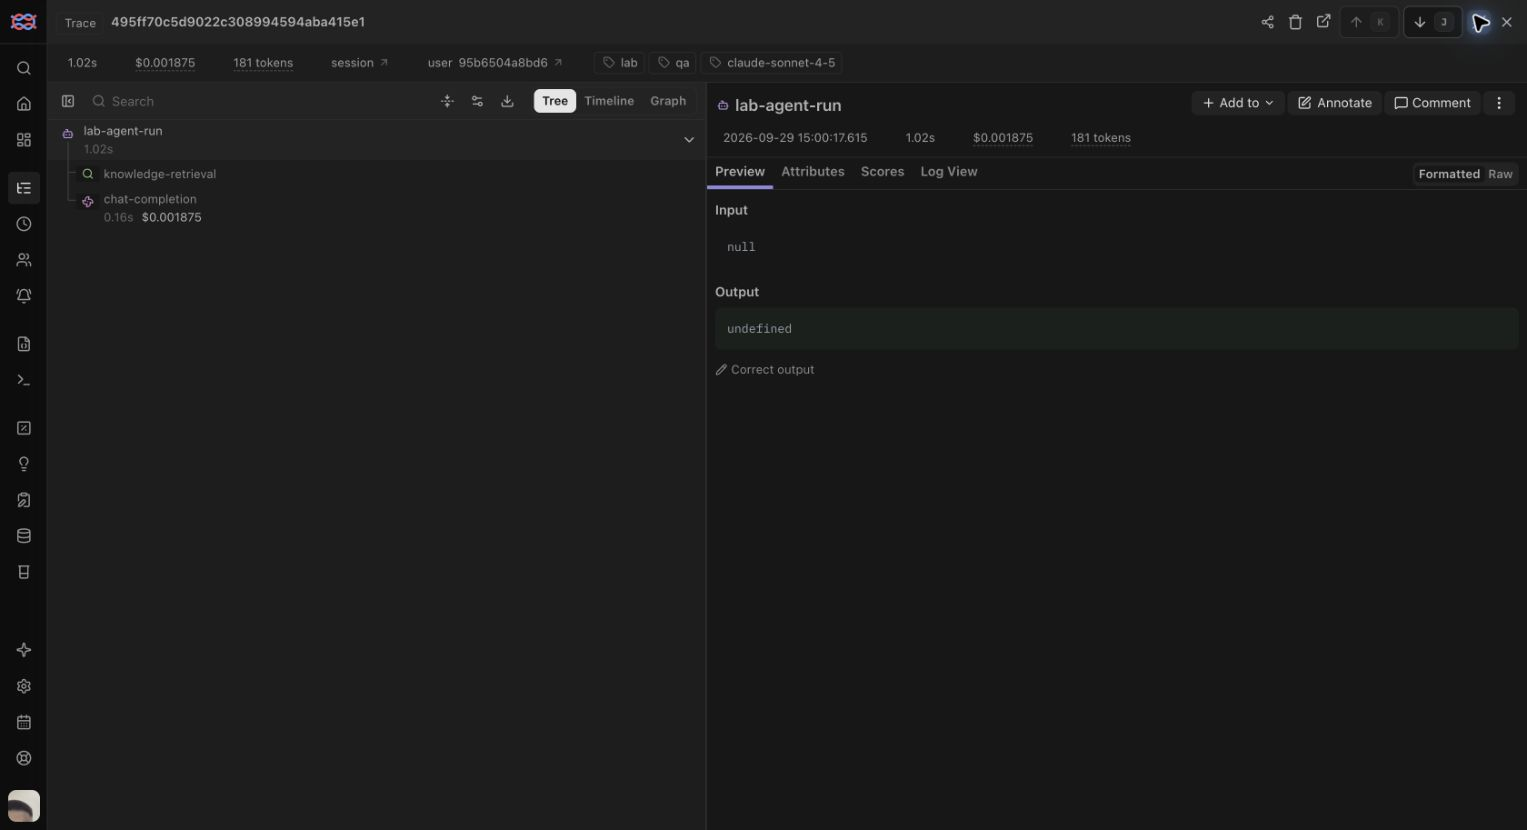
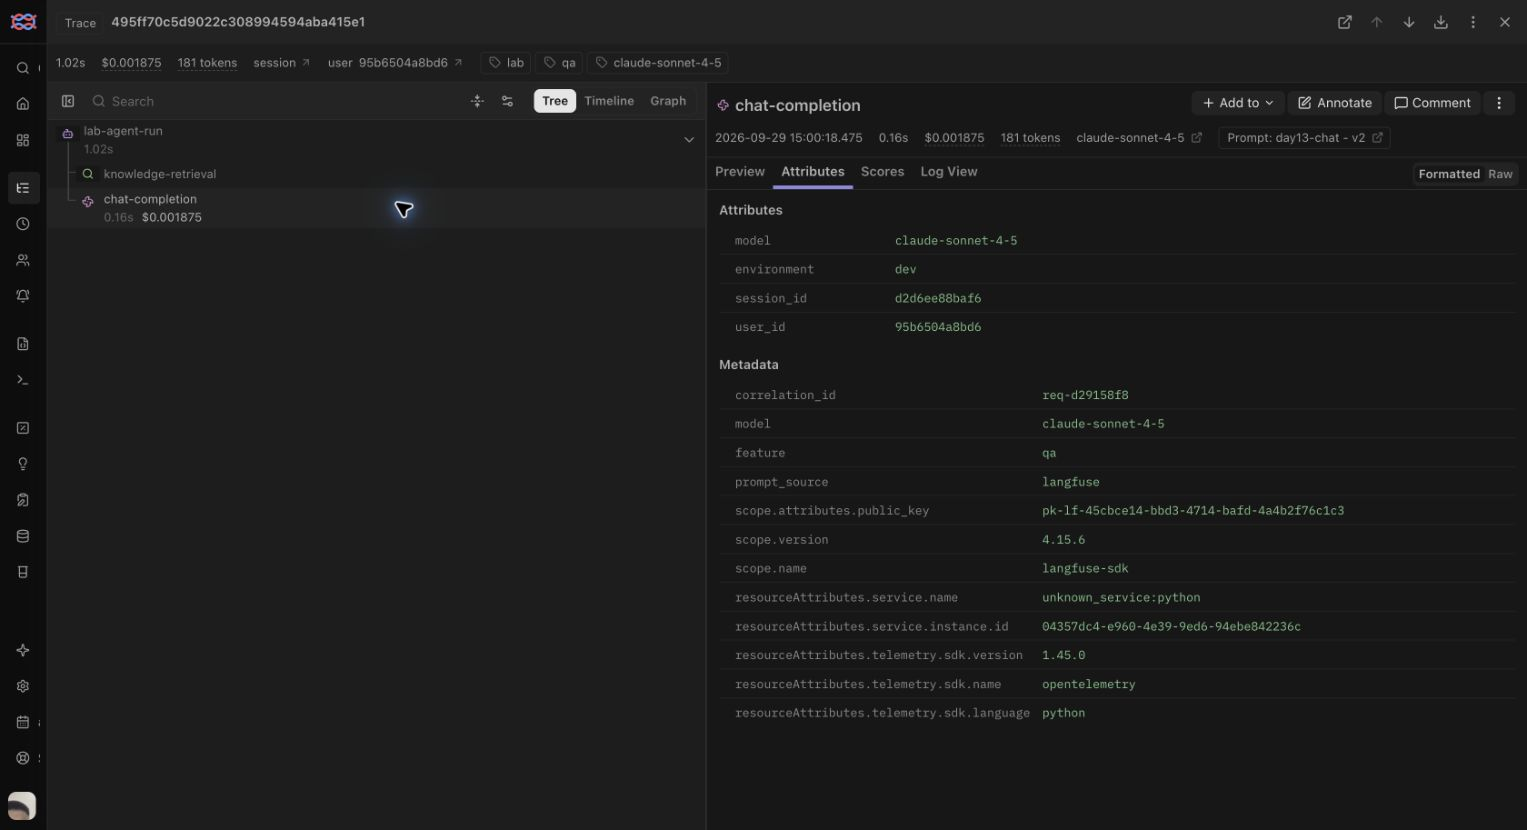
docs(evidence): clarify trace observation data
Select the generation child in the waterfall evidence and document why root input/output may be empty. Distinguish practice traces from the pending CP3 incident trace in the report.

diff --git a/submission/REPORT.md b/submission/REPORT.md
@@ -55,7 +55,7 @@
 ## 5. Tracing và prompt versioning
 
 - **Cách xác nhận traces do chính tôi tạo trong project cá nhân:** `.env` có key pair; Langfuse API xác nhận 12 traces trong project đang được key sử dụng. Langfuse UI xác nhận tên project là `day13-k4-l3a-2A202602628`; trace list và prompt UI screenshots nằm trong `evidence/06`–`10`.
-- **Cấu trúc root/retrieval/generation observations:** Đã kiểm tra waterfall live: `lab-agent-run` có hai child `knowledge-retrieval` và `chat-completion`. Root input/output không được capture; child input/output đã rà PII với 0 mẫu khớp email/điện thoại/CCCD/thẻ.
+- **Cấu trúc root/retrieval/generation observations:** Waterfall live có root `lab-agent-run` và hai child `knowledge-retrieval`, `chat-completion`. Root bật `capture_input=False` và `capture_output=False` để không lưu nội dung user; vì vậy UI có thể hiện `null`/`undefined` ở root. Ảnh waterfall chọn generation child, nơi Langfuse ghi model, prompt version, token và cost. Child input/output đã rà PII với 0 mẫu khớp email/điện thoại/CCCD/thẻ.
 - **Cách nối trace với log:** Correlation ID cùng feature/model xuất hiện trong metadata trace và structured log; session ID được hash trước khi gắn vào trace. Bảng ID nằm trong `evidence/06-langfuse-traces.txt`.
 - **Prompt name:** `day13-chat`, đọc thành công từ Langfuse project.
 - **Version/label baseline:** Version 1 có `baseline` và `production`.
@@ -76,7 +76,7 @@
 - **Khoảng thời gian điều tra:** Chưa chạy challenge.
 - **Triệu chứng từ metrics:** Chưa có.
 - **Log line và correlation ID liên quan:** Chưa có.
-- **Trace ID và span gây ảnh hưởng:** Chưa có; chờ challenge chính thức và cần key project Langfuse cá nhân để tạo trace.
+- **Trace ID và span gây ảnh hưởng:** Chưa có trace của incident CP3. Practice trace `495ff70c5d9022c308994594aba415e1` (`req-d29158f8`, generation `chat-completion`) chỉ làm evidence tracing/prompt, không thay thế challenge.
 - **Root cause:** Chưa kết luận.
 - **Fix action:** Chưa kết luận.
 - **Preventive measure:** Chưa kết luận.
@@ -89,7 +89,7 @@
 - **Cách hiểu luồng Metrics → Logs → Traces:** Metrics khoanh triệu chứng và thời gian; `correlation_id` tìm request trong log; trace của cùng ID chỉ ra span gây chậm/lỗi.
 - **Vai trò của prompt version, token/cost, SLO hoặc rollback trong vận hành LLM:** Trace phân biệt được prompt version 1/2 và correlation ID; token/cost được ghi theo generation. Rollback production về version 1 đã được đọc lại từ API.
 - **Điều quan trọng nhất đã học:** Tracing phải vừa nối được với log vừa tránh capture nội dung user; prompt label có thể promote/rollback độc lập với code và cần có trace xác nhận version thực dùng.
-- **Hạn chế hoặc phần chưa hoàn thành, nếu có:** CP3 incident challenge chưa chạy vì repository hướng dẫn chỉ chạy challenge sau khi nhận file `config/challenge.json` riêng cho lớp từ Lab Coach; không tự tạo hoặc dùng file lớp khác. Langfuse UI screenshots đã lưu trong `evidence/06`–`10`. Số liệu dashboard hiện tại chỉ từ fake LLM practice.
+- **Hạn chế hoặc phần chưa hoàn thành, nếu có:** CP3 incident challenge chưa chạy vì repository hướng dẫn yêu cầu file `config/challenge.json` riêng cho lớp từ Lab Coach; file hiện chưa có và không được tự tạo hoặc lấy từ lớp khác. Langfuse UI screenshots đã lưu trong `evidence/06`–`10`. Số liệu dashboard hiện tại chỉ từ fake LLM practice.
 
 ## 9. Checklist trước khi nộp
 

diff --git a/submission/evidence/README.md b/submission/evidence/README.md
@@ -29,7 +29,7 @@ request-id-headers.txt
 ```text
 06-trace-list.jpg (12 root traces; project name visible)
 07-trace-waterfall.jpg (root + retrieval + generation)
-08-trace-metadata.jpg (correlation ID and generation metadata; crop excludes public key)
+08-trace-metadata.jpg (correlation ID, prompt version/label, token and cost; crop excludes public key)
 09-prompt-versions.jpg (v1 baseline/production and v2 candidate/latest)
 10-prompt-rollback.jpg (v1 selected with production label; v2 retains candidate/latest)
 12-incident-metric.png
